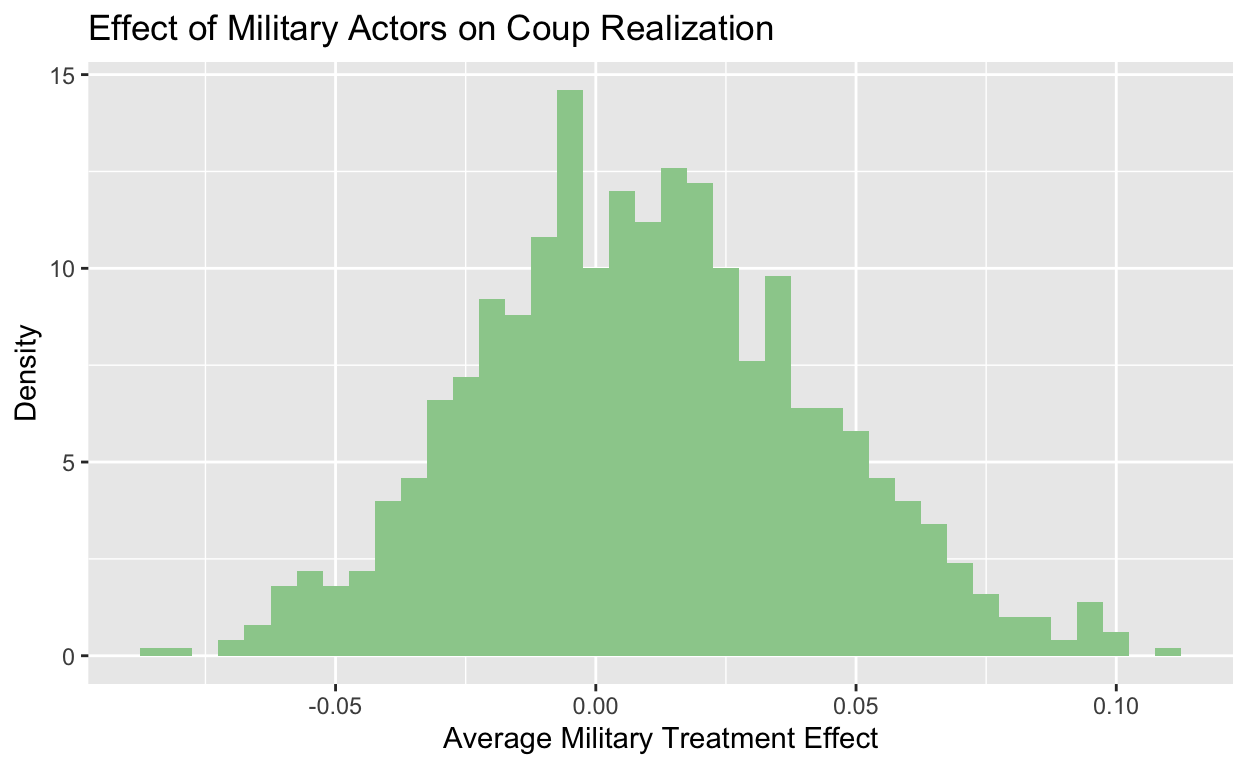
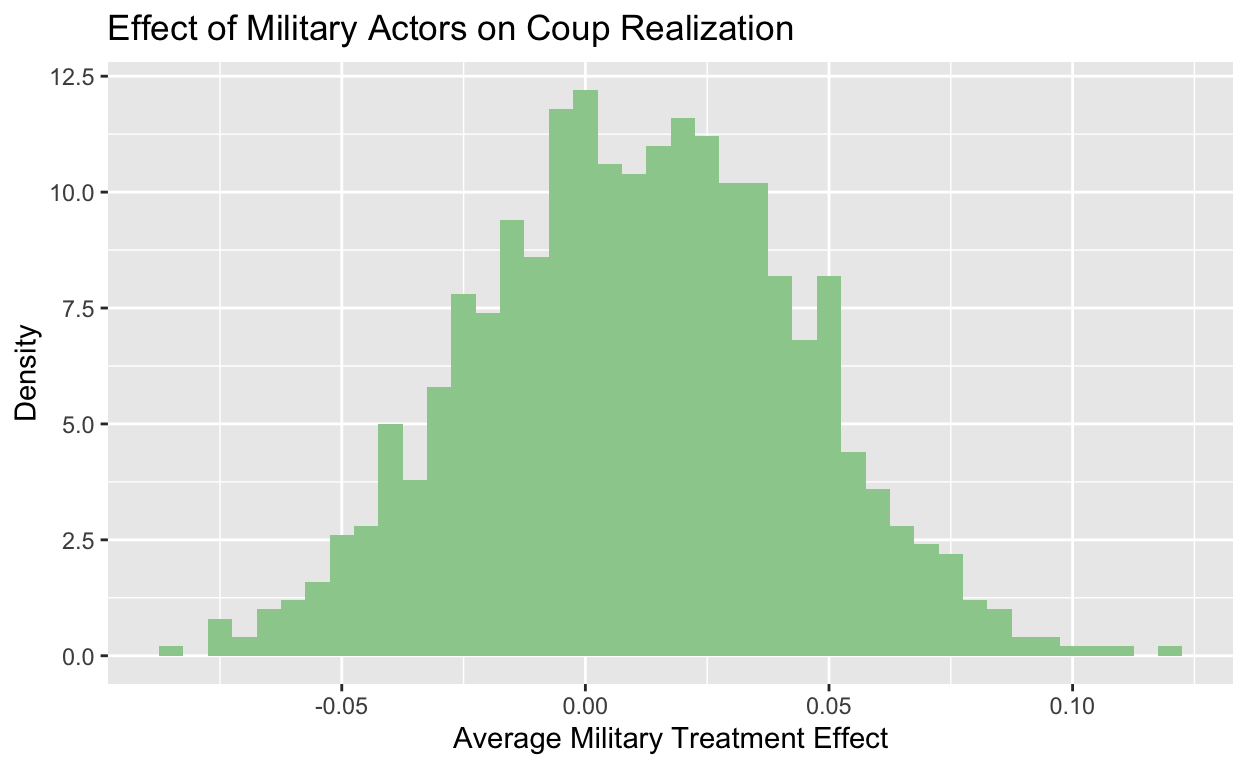
3rd try

diff --git a/index.html b/index.html
@@ -1596,18 +1596,18 @@ code span.wa { color: #5e5e5e; font-style: italic; } /* Warning */
 </div>
 <pre><code># A tibble: 1,000 × 4
 # Groups:   replicate [1,000]
-   replicate   `0`   `1`       ATE
-       &lt;int&gt; &lt;dbl&gt; &lt;dbl&gt;     &lt;dbl&gt;
- 1         1 0.445 0.446  0.000717
- 2         2 0.453 0.496  0.0437  
- 3         3 0.426 0.444  0.0184  
- 4         4 0.504 0.468 -0.0366  
- 5         5 0.469 0.476  0.00703 
- 6         6 0.431 0.458  0.0270  
- 7         7 0.442 0.459  0.0165  
- 8         8 0.442 0.443  0.000987
- 9         9 0.417 0.429  0.0115  
-10        10 0.410 0.462  0.0516  
+   replicate   `0`   `1`      ATE
+       &lt;int&gt; &lt;dbl&gt; &lt;dbl&gt;    &lt;dbl&gt;
+ 1         1 0.423 0.467  0.0438 
+ 2         2 0.429 0.412 -0.0170 
+ 3         3 0.410 0.423  0.0125 
+ 4         4 0.449 0.5    0.0506 
+ 5         5 0.422 0.444  0.0221 
+ 6         6 0.4   0.450  0.0501 
+ 7         7 0.447 0.489  0.0422 
+ 8         8 0.470 0.479  0.00894
+ 9         9 0.432 0.457  0.0253 
+10        10 0.476 0.448 -0.0281 
 # ℹ 990 more rows</code></pre>
 <div class="sourceCode">
 <pre class="sourceCode r"><code class="sourceCode r"><span><span class='co'>#Creating the confidence intervals</span></span>
@@ -1627,8 +1627,8 @@ code span.wa { color: #5e5e5e; font-style: italic; } /* Warning */
 </thead>
 <tbody>
 <tr class="odd">
-<td style="text-align: right;">-0.0537</td>
-<td style="text-align: right;">0.076</td>
+<td style="text-align: right;">-0.0527</td>
+<td style="text-align: right;">0.0747</td>
 </tr>
 </tbody>
 </table>
